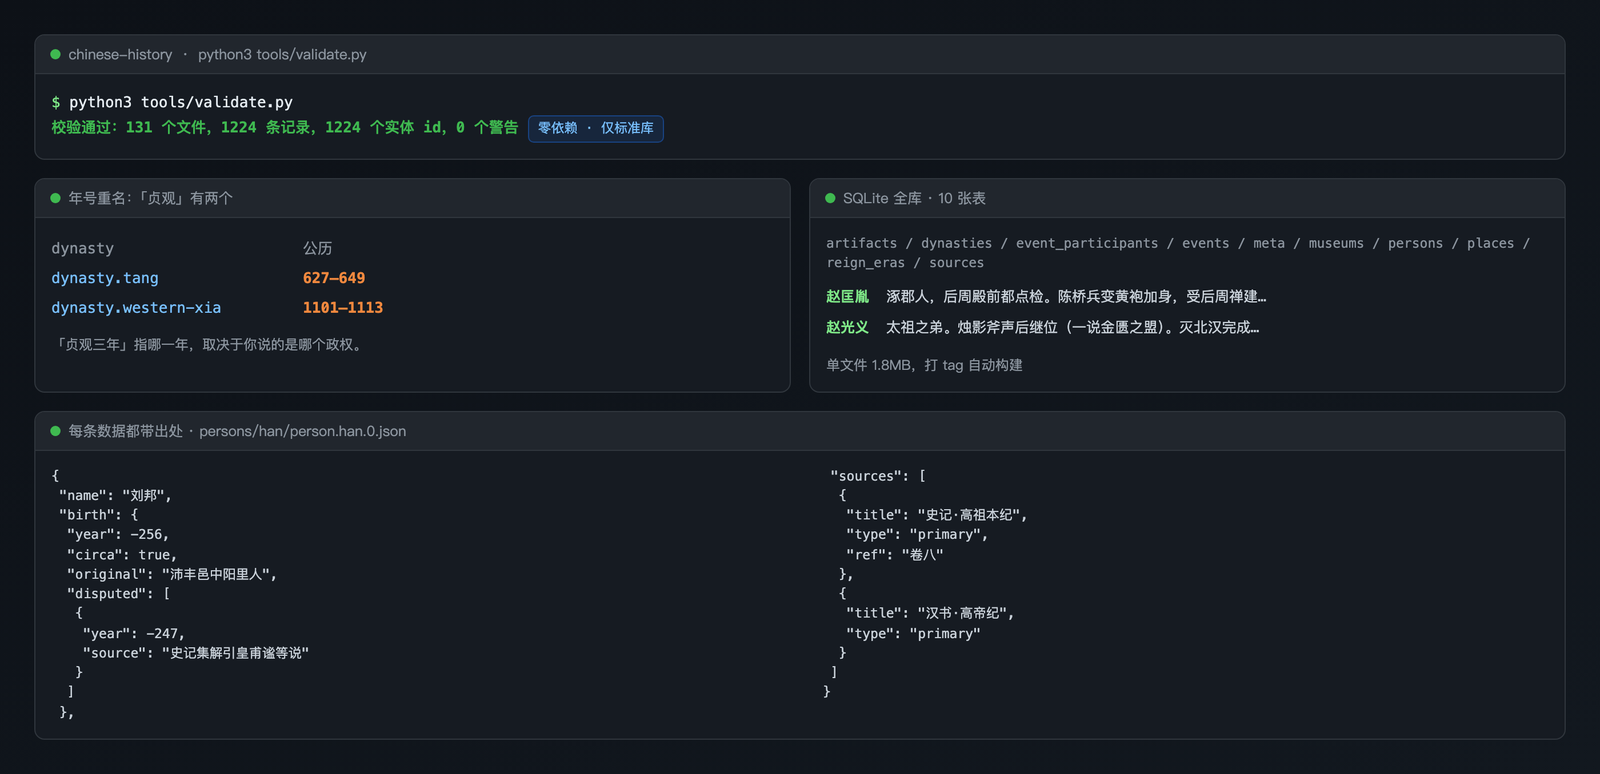
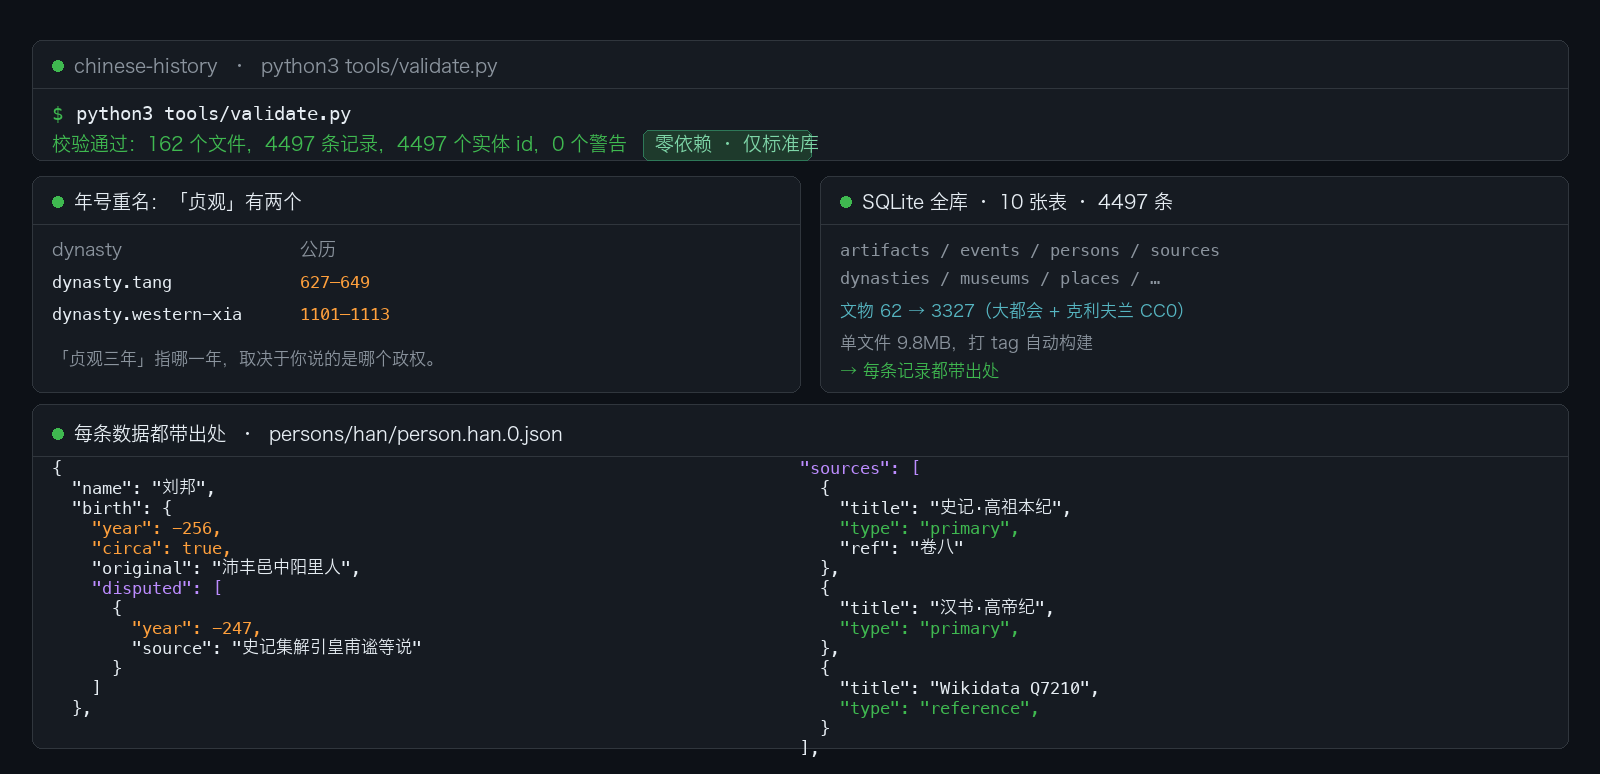
docs(assets): 重截首屏 hero，数字同步到实测值 (#16)
旧图是 v1.4.0 时期（131 个文件 / 1224 条 / 1.8MB）截的。
新图按同一版式重绘，数据全部来自 2026-11-05 本地实跑：
- python3 tools/validate.py -> 162 个文件 / 4497 条 / 0 警告
- python3 tools/build_sqlite.py -> 10 张表 / 9.8MB
- 文物 62 → 3327

JSON 片段取自真实文件 persons/han/person.han.0.json（刘邦），
不是编的示例。绘图脚本一次性使用，未入库。

diff --git a/README.md b/README.md
@@ -38,8 +38,6 @@
 
 [![chinese-history：校验通过 4497 条记录 0 警告 · 年号重名「贞观」有两个 · 每条记录都带出处 · 3327 件馆藏文物](docs/assets/hero.png)](https://anthonyhann.github.io/chinese-history/)
 
-<sub>⚠ 上图是 v1.4.0 时期（1224 条）截的，数字已过时，待重截；当前实测为 4497 条。</sub>
-
 ---
 
 **如果这个项目对你有用，点个 ⭐ Star 是最实际的帮助。** 它不会让数据变得更准，但决定了这个库能不能被更多需要它的人看见——也是我能不能找到 co-maintainer 的前提。
